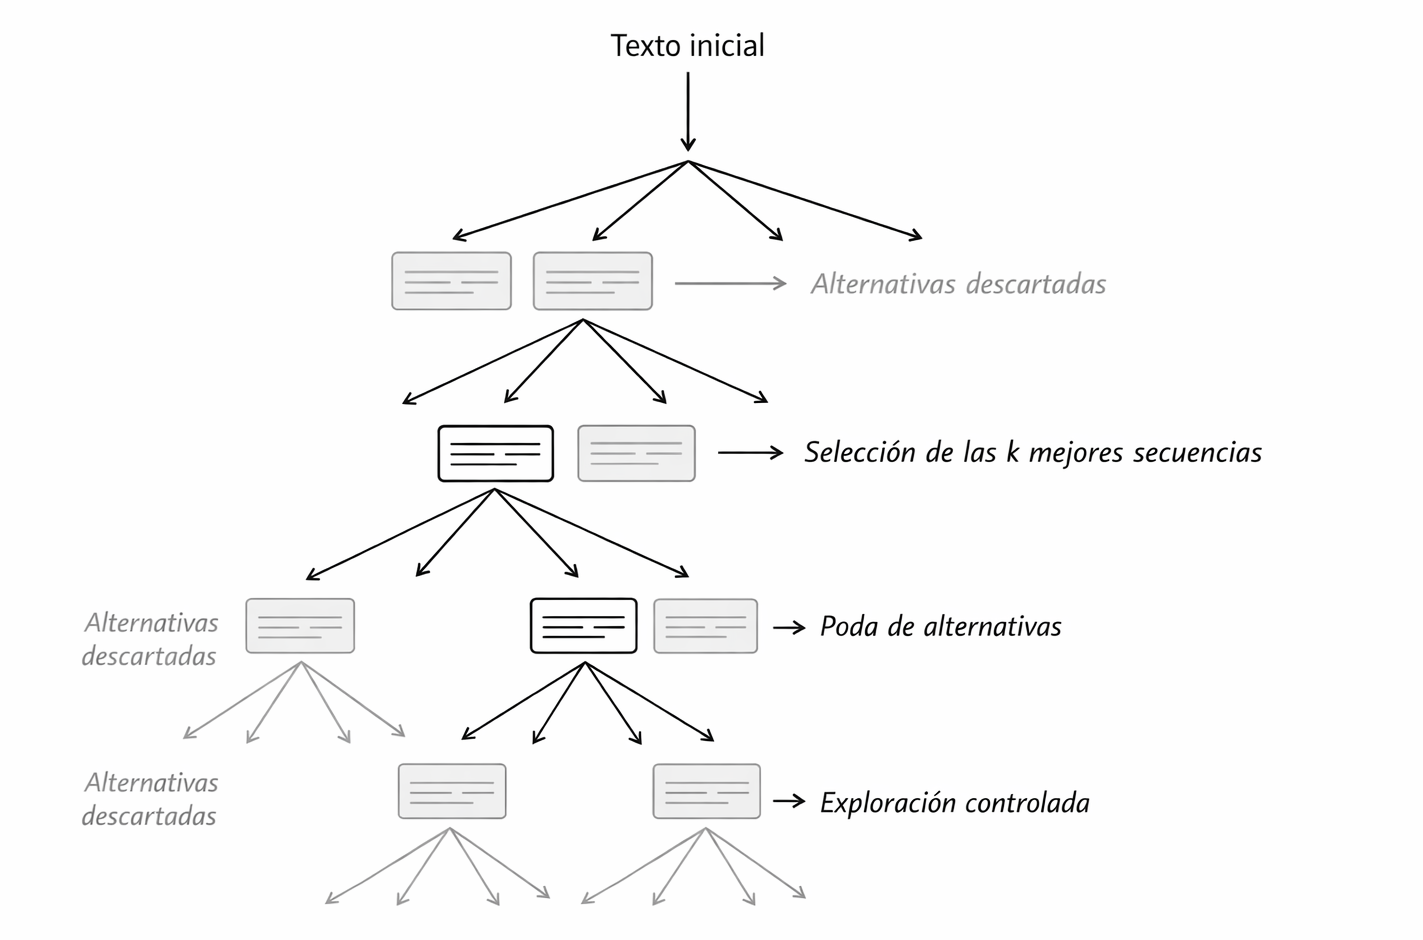
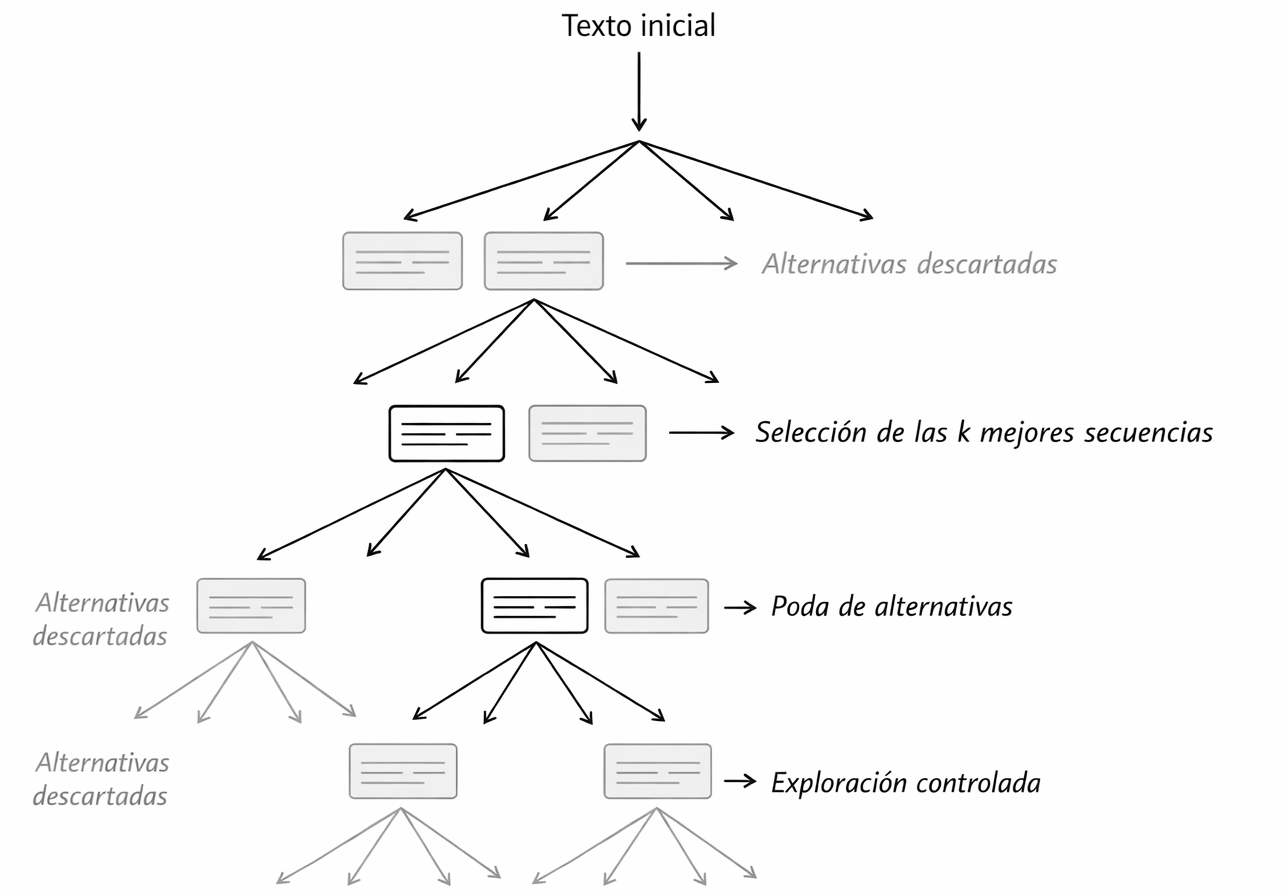
Fin. revisar

diff --git a/memoria/main.tex b/memoria/main.tex
@@ -45,6 +45,9 @@
   tabsize=2
 }
 
+
+
+
 %───────── Template, covers, back cover ────────────────────────────────
 \usepackage{template/sty_files/template-TFGspanish-uma}
 
@@ -99,20 +102,18 @@
 \setlength{\parindent}{0pt}
 \setlength{\parskip}{0.6em}
 
-EL RESUMEN MEJOR DEJARLO PARA EL FINAL, YA QUE TAMBIÉN SE DEBEN INCLUIR ASPECTOS RELACIONADOS CON LOS RESULTADOS
+Este trabajo presenta el desarrollo de una prueba de concepto de un agente basado en modelos de lenguaje ejecutados en local, orientado a la generación de texto con restricciones formales verificables.
+El sistema propuesto combina \emph{LangGraph} como herramienta para estructurar el flujo de ejecución y \emph{Beam Search} como estrategia de búsqueda para mantener varias estrofas candidatas en paralelo.
 
-%En este trabajo se presenta el desarrollo de una prueba de concepto de un agente con capacidad de razonamiento basado en modelos de lenguaje de gran tamaño \emph{(LLMs)}.
-%A diferencia de los sistemas tradicionales que generan una respuesta directa ante una consulta, el agente propuesto implementa bucles dinámicos de \emph{Chain of Thought (CoT)} que le permiten generar,
-%evaluar y refinar pasos intermedios antes de producir una respuesta final.
+Como caso de estudio, se aborda la generación automática de una estrofa en español formada por cuatro versos endecasílabos con rima consonante ABBA.
+Para ello, el agente organiza el proceso en fases de generación, evaluación formal, reparación local y selección de candidatas. La evaluación se basa en criterios objetivos, como el número de versos, el cumplimiento métrico y la adecuación del esquema de rima.
 
-%El sistema se implementa utilizando modelos de lenguaje ejecutados en local, como Llama-3, junto con la librería \emph{LangGraph} para la contrucción de flujos de razonamiento. Además, se emplea
-%una estrategia de búsqueda basada en \emph{Beam Search} que permite explorar múltiples posibles líneas de razonamiento y seleccionar aquellas más prometedoras mediante un mecanismo de puntuación.
+La experimentación se organiza en dos ciclos. El primero establece una línea base sin mecanismos explícitos de reparación, mientras que el segundo incorpora refinamientos orientados a corregir errores métricos y de rima.
+Los resultados muestran una mejora clara en la calidad formal de las estrofas generadas, pasando de soluciones parciales a resultados mucho más próximos al cumplimiento completo de las restricciones, aunque a costa de un mayor tiempo de ejecución.
 
-%El objetivo del proyecto es analizar la viabilidad de este enfoque para mejorar la capacidad de razonamiento de agentes basados en \emph{LLMs} y estudiar su comportamiento en diferentes escenarios de
-%resolución de problemas.
-%\medskip
+\medskip
 
-%\noindent \textbf{Palabras clave:} modelos de lenguaje, agentes inteligentes, \emph{Chain of Thought}, razonamiento automático, \emph{Beam Search}.
+\noindent \textbf{Palabras clave:} modelos de lenguaje, agentes inteligentes, \emph{LangGraph}, \emph{Beam Search}, generación con restricciones, evaluación formal.
 \end{abstract}
 
 
@@ -121,44 +122,43 @@ EL RESUMEN MEJOR DEJARLO PARA EL FINAL, YA QUE TAMBIÉN SE DEBEN INCLUIR ASPECTO
 \setlength{\parindent}{0pt}
 \setlength{\parskip}{0.6em}
 
-EL RESUMEN MEJOR DEJARLO PARA EL FINAL, YA QUE TAMBIÉN SE DEBEN INCLUIR ASPECTOS RELACIONADOS CON LOS RESULTADOS
+This work presents the development of a proof-of-concept agent based on locally executed language models, aimed at generating text under verifiable formal constraints.
+The proposed system combines \emph{LangGraph} as a tool for structuring the execution flow and \emph{Beam Search} as a search strategy to maintain several candidate stanzas in parallel.
 
-%This work represents the development of a proof-of-concept reasoning agent based on Large Language Models \emph{(LLMs)}.
-%Unlike traditional systems that generate an immediate response to a query, the proposed agent implements dynamic \emph{Chain Of Thought (CoT)} loops that allow it to generate, evaluate, and refine
-%intermediate reasoning steps before producing a final answer.
+As a case study, the system addresses the automatic generation of a Spanish stanza composed of four hendecasyllabic verses with ABBA consonant rhyme. To this end, the agent organizes the process into generation, formal evaluation, local repair and candidate selection stages.
+The evaluation is based on objective criteria, such as the number of verses, metrical correctness and compliance with the target rhyme scheme.
 
-%The system is implemented using locally executed language models such as Llama-3, together with the \emph{LangGraph} library for building reasoning workflows. Additionally, a \emph{Beam Search}
-%strategy is employed to explore multiple possible reasoning paths and select the most promising ones through a scoring mechanism.
+The experimental evaluation is organized into two cycles. The first one establishes a baseline without explicit repair mechanisms, whereas the second introduces refinements aimed at correcting metrical and rhyme-related errors.
+The results show a clear improvement in the formal quality of the generated stanzas, progressing from partial solutions to outputs much closer to full compliance with the imposed constraints, although at the cost of higher execution time.
 
-%The goal of this project is to analyze the feasibility of this approach to improve the reasoning capabilities of LLM-based agents and to study their behaviour in different problem-solving scenarios.
-%\medskip
+\medskip
 
-%\noindent \textbf{Keywords:} language models, intelligent agents, \emph{Chain of Thought}, automated reasoning, \emph{Beam Search}.
+\noindent \textbf{Keywords:} language models, intelligent agents, \emph{LangGraph}, \emph{Beam Search}, constrained generation, formal evaluation.
 \end{abstract}
 
 %──────────────── Acknowledgments ───────────────────────────────────────
 
 % ====================================== AGRADECIMIENTOS ====================================
 \begin{umaacknowledgments}
-ESTA PARTE ES LO ÚLTIMO DEL TFG
+%ESTA PARTE ES LO ÚLTIMO DEL TFG
 
-%Primero de todo, quiero expresar mi más sincero agradecimiento a mi tutor, el profesor Sergio Gálvez Rojas, por su apoyo, orientación y paciencia a lo largo de todo el proceso de desarrollo de este proyecto.
-%Su experiencia y conocimientos han sido fundamentales para superar los desafíos encontrados y para guiarme en la dirección correcta.
+Primero de todo, quiero expresar mi más sincero agradecimiento a mi tutor, el profesor Sergio Gálvez Rojas, por su apoyo, orientación y paciencia a lo largo de todo el proceso de desarrollo de este proyecto.
+Su experiencia y conocimientos han sido fundamentales para superar los desafíos encontrados y para guiarme en la dirección correcta.
 
-%En segundo lugar, quiero agradecer a mis compañeros de clase, en especial a Pedro, Placi y Sergio, por todos los momentos compartidos, tanto dentro como fuera del ámbito académico, y que forman parte sin duda de esta etapa universitaria y, por qué no, de este proyecto de fin de grado.
+En segundo lugar, quiero agradecer a mis compañeros de clase, en especial a Pedro, Placi y Sergio, por todos los momentos compartidos, tanto dentro como fuera del ámbito académico, y que forman parte sin duda de esta etapa universitaria y, por qué no, de este proyecto de fin de grado.
 
-%A Alejandro y Álvaro, mis compañeros de piso durante los dos últimos años de la carrera, gracias por vuestra compañía, apoyo y por hacer que la convivencia haya sido una experiencia tan positiva.
+A Alejandro y Álvaro, mis compañeros de piso durante los dos últimos años de la carrera, gracias por vuestra compañía, apoyo y por hacer que la convivencia haya sido una experiencia tan positiva.
 
-%Por supuesto, a Ángel, mi mejor amigo, gracias por estar siempre ahí, por escucharme, por compartir tus ideas y por ser una fuente constante de orgullo, motivación e inspiración.
+Por supuesto, a Ángel, mi mejor amigo, gracias por estar siempre ahí, por escucharme, por compartir tus ideas y por ser una fuente constante de orgullo, motivación e inspiración.
 
-%Y, sin duda, el agradecimiento más especial e importante, no sólo durante estos 4 años de carrera, sino a lo largo de toda mi vida, va para mi familia.
-%Comenzando por mis hermanas: Esperanza, por ser un ejemplo de esfuerzo y dedicación, y por tu apoyo incondicional en cada paso que doy; y Paula, por tu alegría, energía y cariño, que siempre me han dado fuerzas para seguir adelante.
+Y, sin duda, el agradecimiento más especial e importante, no sólo durante estos 4 años de carrera, sino a lo largo de toda mi vida, va para mi familia.
+Comenzando por mis hermanas: Esperanza, por ser un ejemplo de esfuerzo y dedicación, y por tu apoyo incondicional en cada paso que doy; y Paula, por tu alegría, energía y cariño, que siempre me han dado fuerzas para seguir adelante.
 
-%A mi mayor referente, mi padre, Juan, por ser un pilar fundamental en mi vida, por enseñarme el valor del trabajo duro y por estar siempre dispuesto a apoyarme en cada decisión que tomo. El hombre al que aspiro a parecerme, mi mayor fuente de inspiración.
-%Ejemplo constante de empeño, sacrificio y dedicación, y que me ha enseñado a perseguir mis sueños con pasión y determinación.
+A mi mayor referente, mi padre, Juan, por ser un pilar fundamental en mi vida, por enseñarme el valor del trabajo duro y por estar siempre dispuesto a apoyarme en cada decisión que tomo. El hombre al que aspiro a parecerme, mi mayor fuente de inspiración.
+Ejemplo constante de empeño, sacrificio y dedicación, y que me ha enseñado a perseguir mis sueños con pasión y determinación.
 
-%Y, por último, a mi madre, Margarita. Gracias por ser el corazón de nuestra familia, por tu amor incondicional, por esa sonrisa o ese beso que, incluso en los momentos más difíciles, hace que todo lo malo desaparezca.
-%Ejemplo de fortaleza y amor, y que me ha enseñado a ser la persona que soy hoy. Sin ti, nada de esto habría sido posible.
+Y, por último, a mi madre, Margarita. Gracias por ser el corazón de nuestra familia, por tu amor incondicional, por esa sonrisa o ese beso que, incluso en los momentos más difíciles, hace que todo lo malo desaparezca.
+Ejemplo de fortaleza y amor, y que me ha enseñado a ser la persona que soy hoy. Sin ti, nada de esto habría sido posible.
 
 % ESTO CREO QUE FINALMENTE LO VOY A QUITAR
 % Gracias a todas esas personas que, de una forma u otra, han formado parte de esta etapa de mi vida. Gracias por vuestro apoyo y por compartir conmigo esta experiencia. Sin vosotros, estos 4 años en Málaga y este proyecto de fin de grado no habrían sido lo mismo.
@@ -205,7 +205,7 @@ ESTA PARTE ES LO ÚLTIMO DEL TFG
 %Como caso de estudio, se plantea la generación de una estrofa clásica en español. Esta tarea resulta adecuada porque combina generación de lenguaje natural con restricciones verificables, como el número de versos,
 %la métrica endecasílaba y la rima consonante ABBA.
 
-En los últimos años, el desarrollo de los \emph{Large Language Models (LLMs)} ha supuesto un avance significativo en el procesamiento del lenguaje natural.Estos modelos son capaces de generar texto coherente, responder
+En los últimos años, el desarrollo de los \emph{Large Language Models (LLMs)} ha supuesto un avance significativo en el procesamiento del lenguaje natural. Estos modelos son capaces de generar texto coherente, responder
 preguntas y resolver una amplia variedad de tareas lingüísticas. Sin embargo, siguen presentando limitaciones cuando deben cumplir restricciones concretas o seguir un proceso de razonamiento controlado.
 
 Una de las principales dificultades aparece cuando la respuesta no puede considerarse únicamente como una generación libre, sino como el resultado de un proceso que debe ser explorado, evaluado y corregido.
@@ -289,7 +289,7 @@ Los \emph{Large Language Models (LLMs)} han experimentado un crecimiento notable
 Modelos basados en arquitecturas \emph{Transformer} han demostrado una gran capacidad para generar texto coherente, mantener el contexto en conversaciones prolongadas y abordar una amplia variedad de tareas lingüísticas
 con un alto grado de precisión.
 
-Estos avances se deben, en gran medida, al entrenamiento sobre grandes colúmenes de datos y a la capacidad de estos modelos para capturar patrones estadísticos complejos en el lenguaje \cite{vaswani2017attention,brown2020language}.
+Estos avances se deben, en gran medida, al entrenamiento sobre grandes volúmenes de datos y a la capacidad de estos modelos para capturar patrones estadísticos complejos en el lenguaje \cite{vaswani2017attention,brown2020language}.
 
 No obstante, a pesar de su elevado rendimiento en tareas generales de generación de texto, estos modelos presentan limitaciones significativas cuando se enfrentan a problemas que requieren razonamiento estructurado. A diferencia
 de los sistemas diseñados específicamente para la inferencia lógica o el cálculo simbólico, los \emph{LLMs} no siguen un proceso explícito de razonamiento, sino que generan respuestas basándose en la probabilidad de aparición de las
@@ -312,7 +312,7 @@ sino que también incrementa la fiabilidad del resultado final.
 
 
 Además, los \emph{LLMs} tienden a generar una única respuesta por defecto, sin explorar alternativas ni considerar diferentes posibles soluciones. Esta característica contrasta con los enfoques clásicos de resolución de problemas,
-en los que es habitual evaluar múltiples hipótesis antes de seleccionar la más adecuada. Como resultado, el modelo puede quedar limitado a una única trayectoria de generación, sin mecanismos internos que permiten revisar,
+en los que es habitual evaluar múltiples hipótesis antes de seleccionar la más adecuada. Como resultado, el modelo puede quedar limitado a una única trayectoria de generación, sin mecanismos internos que permitan revisar,
 comparar o corregir sus propias decisiones.
 
 En este contexto, surge la necesidad de desarrollar estrategias que permitan guiar el proceso de generación de los \emph{LLMs} hacia formas de razonamiento más estructuradas y fiables. Estas estrategias buscan introducir mecanismos
@@ -343,11 +343,11 @@ Sin embargo, a pesar de sus ventajas, este enfoque presenta también limitacione
 puede comprometer el resultado final sin posibilidad de corrección. Además, no existe un mecanismo interno que permita evaluar la calidad de los pasos generados ni comparar distintas alternativas de razonamiento.
 % esta limitación desaparecerá cuando introduzcamos Beam Search
 
-Por otro lado, la eficacia se \emph{CoT} depende en gran medida de la calidad del \emph{prompt} utilizado, así como de la capacidad del modelo para seguir instrucciones de forma consistente. En algunos casos, el modelo puede generar pasos
+Por otro lado, la eficacia de \emph{CoT} depende en gran medida de la calidad del \emph{prompt} utilizado, así como de la capacidad del modelo para seguir instrucciones de forma consistente. En algunos casos, el modelo puede generar pasos
 intermedios que resultan aceptables desde el punto de vista lingüístico, pero que no aportan un avance real en la resolución del problema.
 
-En conjunto, \emph{Chain-of-Thought} representa un avance significativo en la forma de abordar el razonamiento con modelos de lenguaje, al introducir la idea de estructurar la generación mediante pasos intermedios. No obstante, sus
-limitaciones ponen de manifiesto la necesidad de desarrollar enfoques más avanzados que permitan explorar múltiples trayectorias y evaluar su calidad de manera sistemática.
+%En conjunto, \emph{Chain-of-Thought} representa un avance significativo en la forma de abordar el razonamiento con modelos de lenguaje, al introducir la idea de estructurar la generación mediante pasos intermedios. No obstante, sus
+%limitaciones ponen de manifiesto la necesidad de desarrollar enfoques más avanzados que permitan explorar múltiples trayectorias y evaluar su calidad de manera sistemática.
 
 %────────────────────── Extensiones de razonamiento paso a paso ──────────────────────────
 \section{Extensiones de Razonamiento Paso a Paso}
@@ -377,7 +377,7 @@ especialmente relevante en el desarrollo de sistemas capaces de abordar problema
 El proceso de generación de texto en los modelos de lenguaje puede entenderse como un problema de búsqueda en el espacio de todas las posibles secuencias de palabras. En cada paso, el modelo asigna una probabilidad a los posibles
 siguientes \emph{tokens} en función del contexto previo, para que sea el método de búsqueda el que posteriormente determina cómo se selecciona la continuación de la secuencia generada.
 
-El enfoque más sencillo es la estrategia \emph{greedy}, que consiste en seleccionar en cada paso el token con mayor probabilidad. Este método es eficiente y produce resultados coherentes en muchos casos, pero presenta una limitación
+El enfoque más sencillo es la estrategia \emph{greedy}, que consiste en seleccionar en cada paso el \emph{token} con mayor probabilidad. Este método es eficiente y produce resultados coherentes en muchos casos, pero presenta una limitación
 importante: al tomar decisiones de forma local, puede descartar opciones que, aunque inicialmente menos probables, podrían conducir a mejores resultados a largo plazo \cite{jurafsky2009speech}.
 
 Como se muestra en la figura~\ref{fig:GreedySearch}, este comportamiento implica que en cada paso únicamente se sigue la alternativa más probable, ignorando otras posibles continuaciones que quedan descartadas desde etapas tempranas del proceso.
@@ -385,7 +385,7 @@ Esta característica explica por qué el método puede converger rápidamente a 
 
 \begin{figure}[h]
     \centering
-    \includegraphics[width=0.7\textwidth]{images/GreedySearch.png}
+    \includegraphics[width=0.8\textwidth]{images/GreedySearch.png}
     \caption{Ilustración del algoritmo de búsqueda voraz en la generación de texto. Fuente: elaboración propia}
     \label{fig:GreedySearch}
 \end{figure}
@@ -430,12 +430,16 @@ trayectorias que se mantienen activas en cada iteración. A partir de estas secu
 iterativa hasta alcanzar una condición de finalización, como la generación de una secuencia completa o un numero máximo de pasos \cite{jurafsky2009speech}.
 
 Desde un punto de vista conceptual, \emph{Beam Search} puede interpretarse como una exploración controlada del espacio de soluciones. En lugar de comprometerse con una única trayectoria desde el inicio, el algoritmo permite reconsiderar
-decisiones a medida que se genera la secuencia, manteniedno abiertas varias alternativas en paralelo. Esto reduce la probabilidad de descartar prematuramente opciones que podrían resultar óptimos en etapas posteriores (como sucede en la
+decisiones a medida que se genera la secuencia, manteniendo abiertas varias alternativas en paralelo. Esto reduce la probabilidad de descartar prematuramente opciones que podrían resultar óptimas en etapas posteriores (como sucede en la
 búsqueda voraz).
 
 La figura~\ref{fig:BeamSearchImagen2} ilustra este proceso mediante un árbol de generación en el que, a partir de un estado inicial, se exploran múltiples continuaciones posibles. En cada iteración, únicamente se conservan las $k$ trayectorias
 mejor valoradas, mientras que el resto son descartadas, lo que permite limitar el crecimiento exponencial del número de secuencias. Este mecanismo de expansión y poda sucesiva constituye el núcleo del algoritmo y explica su capacidad para
 combinar exploración y eficiencia.
+
+No obstante, la eficacia del algoritmo depende en gran medida de la función de puntuación utilizada para evaluar las secuencias candidatas. En aplicaciones tradicionales de procesamiento del lenguaje, esta puntuación suele basarse en
+la probabilidad acumulada de la secuencia generada. Sin embargo, este criterio no siempre es suficiente en tareas que requieren razonamiento, donde la calidad de una solución no depende únicamente de su probabilidad, sino también de la
+coherencia y validez de los pasos intermedios.
 
 \begin{figure}[h]
     \centering
@@ -444,12 +448,8 @@ combinar exploración y eficiencia.
     \label{fig:BeamSearchImagen2}
 \end{figure}
 
-No obstante, la eficacia del algoritmo depende en gran medida de la función de puntuación utilizada para evaluar las secuencias candidatas. En aplicaciones tradicionales de procesamiento del lenguaje, esta puntuaciñon suele basarse en
-la probabilidad acumulada de la secuencia generada. Sin embargo, este criterio no siempre es suficiente en tareas que requieren razonamiento, donde la calidad de una solución no depende únicamente de su probabilidad, sino también de la
-coherencia y validez de los pasos intermedios.
-
 Otra limitación relevante es que \emph{Beam Search} sigue siendo un método determinista en su forma básica, lo que implica que puede generar resultados similares en ejecuciones repetidas si no se introduce algún mecanismo de variabilidad.
-Además, el valor del parámetro $k$ unfluye directamente en el equilibrio entre coste computacional y calidad de las soluciones: valores pequeños pueden limitar la exploración, mientras que valores grandes incrementan significativamente
+Además, el valor del parámetro $k$ influye directamente en el equilibrio entre coste computacional y calidad de las soluciones: valores pequeños pueden limitar la exploración, mientras que valores grandes incrementan significativamente
 el tiempo de cálculo.
 
 A pesar de estas limitaciones, \emph{Beam Search} constituye una herramienta fundamental en la generación de secuencias, y su capacidad para mantener múltiples hipótesis lo convierte en un candidato natural para su aplicación en tareas de
@@ -464,15 +464,15 @@ Aunque el algoritmo de \emph{Beam Search} ha sido tradicionalmente utilizado en 
 lenguaje. En este contexto, el objetivo no es únicamente generar una secuencia probable, sino explorar distintas posibles trayectorias de razonamiento y seleccionar aquellas que conducen a soluciones más adecuadas.
 
 La combinación de \emph{Beam Search} con enfoques como \emph{Chain-of-Thought} permite reinterpretar el proceso de generación como una búsqueda sobre posibles cadenas de razonamiento. En lugar de producir una única secuencia de pasos intermedios,
-el modelo puede generar múltiples alternativas en cada etapa, dando lugar a diferentes hipótesis que desarrollan en paralelo. Este enfoque permite superar uan de las principales limitaciones del razonamiento lineal, al incorporar la posibilidad
+el modelo puede generar múltiples alternativas en cada etapa, dando lugar a diferentes hipótesis que desarrollan en paralelo. Este enfoque permite superar una de las principales limitaciones del razonamiento lineal, al incorporar la posibilidad
 de reconsiderar decisiones y explorar distintos caminos hacia la solución.
 
 Como se muestra en la figura~\ref{fig:BeamSearchYCoT}, esta diferencia puede entenderse como el paso de un proceso de generación basado en una única trayectoria (\emph{Chain-of-Thought}) a otro en el que se mantienen múltiples trayectorias de
-razonamiento de forma simultánea (\emph{Beam Search} + \emph{CoT}). Esta ampliación del espacio de búsqueda permite aumentar la probabilidad de encontrar soluciones correctas, especialmente en problemas que requieren varios pasos intermedios.
+razonamiento de forma simultánea (\emph{Beam Search} + \emph{CoT}). %Esta ampliación del espacio de búsqueda permite aumentar la probabilidad de encontrar soluciones correctas, especialmente en problemas que requieren varios pasos intermedios.
 
 \begin{figure}[h]
     \centering
-    \includegraphics[width=0.95\textwidth]{images/BeamSearchYCoT.png}
+    \includegraphics[width=0.9\textwidth]{images/BeamSearchYCoT.png}
     \caption{Estrategias de generación: trayectoria única frente a múltiples trayectorias. Fuente: elaboración propia}
     \label{fig:BeamSearchYCoT}
 \end{figure}
@@ -487,8 +487,8 @@ la necesidad de definir criterios más complejos que permitan evaluar no solo el
 Además, el uso de \emph{Beam Search} en este contexto requiere integrar mecanismos que permitan generar pasos de razonamiento coherentes y relevantes en cada iteración. Esto puede lograrse mediante el uso de técnicas de \emph{propmting}
 adecuadas, que orienten al modelo hacia la producción de pasos intermedios bien estructurados, o mediante la incorporación de componentes adicionales encargados de guiar el proceso de generación.
 
-Por último, cabe destacar que la aplicación de \emph{Beam Search} al razonamiento introduce un equilibrio delicado entre exploración y coste computacional. A medida que se incrementa el número de traycetorias consideradas, mejora la capacidad
-del sistema para encontrar soluciones de mayor calidad, pero también aumenta el número de evaluaciones necesarios. Por tanto, resulta necesario ajustar cuidadosamente los parámetros del algoritmo para lograr un compromisoadecuado entre
+Por último, cabe destacar que la aplicación de \emph{Beam Search} al razonamiento introduce un equilibrio delicado entre exploración y coste computacional. A medida que se incrementa el número de trayectorias consideradas, mejora la capacidad
+del sistema para encontrar soluciones de mayor calidad, pero también aumenta el número de evaluaciones necesarios. Por tanto, resulta necesario ajustar cuidadosamente los parámetros del algoritmo para lograr un compromiso adecuado entre
 eficacia y rendimiento.
 
 En conjunto, la integración de \emph{Beam Search} en el proceso de razonamiento con modelos de lenguaje representa un paso hacia enfoques más estructurados y controlados, en los que la generación de soluciones no depende de una única trayectoria,
@@ -504,7 +504,7 @@ directamente la salida del modelo con una respuesta de referencia, en tareas de 
 En enfoques tradicionales, la evaluación suele centrarse en la corrección de la respuesta final mediante métricas como la exactitud o el \emph{exact match}. Este tipo de medidas resulta adecuado en tareas cerradas, como la resolución de problemas
 matemáticos con una única solución correcta \cite{cobbe2021training}. Sin embargo, presentan limitaciones importantes en escenarios donde el razonamiento intermedio juega un papel fundamental o donde pueden existir múltiples soluciones plausibles.
 
-En este contexto, ha surgido un interés creciente por evaluar explícitamente las traycetorias de razonamiento generadas por los modelos. Este enfoque implica analizar la coherencia, consistencia y utilidad de los pasos intermedios, en lugar de
+En este contexto, ha surgido un interés creciente por evaluar explícitamente las trayectorias de razonamiento generadas por los modelos. Este enfoque implica analizar la coherencia, consistencia y utilidad de los pasos intermedios, en lugar de
 limitarse a verificar el resultado final. La evaluación del proceso permite identificar errores que no serían detectables mediante métricas tradicionales, especialmente en casos en los que una respuesta correcta puede haberse obtenido a partir
 de un razonamiento incorrecto o incompleto.
 
@@ -546,8 +546,8 @@ Las extensiones basadas en la generación de múltiples trayectorias, como \emph
 se basa únicamente en el resultado, sin tener en cuenta la calidad del razonamiento intermedio. Esto limita su capacidad para discriminar entre soluciones que pueden parecer correctas superficialmente pero que se basan en procesos
 inconsistentes \cite{wang2022self}.
 
-Asimismo, la exploración del espacio de soluciones suele implicar un compromiso complejo entre calidad y coste computacional. Métodos como \emph{Tree of Thoughts}, que permiten considerar múltiples alternativas tienden a requerir un mayor
-número de evaluaciones, lo que dificulta su aplicación en entornos donde lso recursos son limitados.
+Asimismo, la exploración del espacio de soluciones suele implicar un compromiso complejo entre calidad y coste computacional. Métodos como \emph{Tree of Thoughts}, que permiten considerar múltiples alternativas, tienden a requerir un mayor
+número de evaluaciones, dificultando así su aplicación en entornos donde los recursos son limitados.
 
 Por último, muchos de los enfoques existentes carecen de un marco unificado que integre de manera coherente la generación de soluciones, su evaluación y el control del flujo de razonamiento. En lugar de ello, estos componentes suelen abordarse
 de forma aislada, lo que reduce la capacidad del sistema para gestionar el proceso de forma estructurada.
@@ -605,7 +605,7 @@ razonamiento. Esta necesidad constituye el punto de partida para el enfoque prop
 \section{Introducción a LangGraph}
 
 En los sistemas basados en modelos de lenguaje, el enfoque tradicional ha consistido en realizar llamadas independientes y aisladas a un modelo, evolucionando posteriormente
-hacia sistemas más complejos capaces de gestionar flujos de ejecución estructurados. Esto cambio responde así a la necesidad de construir aplicaciones que no solo generen
+hacia sistemas más complejos capaces de gestionar flujos de ejecución estructurados. Este cambio responde así a la necesidad de construir aplicaciones que no solo generen
 respuestas, sino que integren múltiples pasos de procesamiento, toma de decisiones y manejo de información intermedia.
 
 En este contexto surge \emph{LangGraph}, una herramienta que se presenta como alternativa a los enfoques lineales, y diseñada para facilitar la construcción de agentes
@@ -622,46 +622,18 @@ procesos más complejos y adaptativos.
 
 \begin{figure}[h]
     \centering
-
-    \begin{subfigure}{0.45\textwidth}
-        \centering
-        \includegraphics[width=0.8\linewidth]{images/DiagramaFlujoSecuencial.png}
-        \caption{Ejemplo de enfoque tradicional mediante diagrama de flujo lineal}
-    \end{subfigure}
-    \hfill
-    \begin{subfigure}{0.45\textwidth}
-        \centering
-        \includegraphics[width=\linewidth]{images/DiagramaFlujoGrafo2.png}
-        \caption{Ejemplo de enfoque moderno mediante diagrama de flujo en grafo}
-    \end{subfigure}
-
-    \caption{Comparación entre enfoques. Fuente: Elaboración propia}
+    \includegraphics[width=0.9\textwidth]{images/DosFlujos.png}
+    \caption{Comparación entre un flujo de ejecución lineal tradicional y un flujo basado en grafo. Fuente: Elaboración propia}
     \label{fig:ComparaciónEnfoques}
 \end{figure}
 
 Además, la modularidad que ofrece \emph{LangGraph} al facilitar la separación de responsabilidades dentro del sistema, permitiendo definir distintos componentes que se encargan de
 tareas específicas no solo mejorar la claridad del diseño, sino que a su vez favorece la reutilización y extensión del sistema. Algunas de las tareas específicas ejecutadas por los
-compenentes son la generación de contenido, la evaluación de resultados o la actualización del estado interno.
+componentes son la generación de contenido, la evaluación de resultados o la actualización del estado interno.
 
 De este modo, \emph{LangGraph} constituye una base sólida para el desarrollo de agentes avanzados, proporcionando un marco de trabajo que permite superar las limitaciones de los
 enfoques secuenciales tradicionales y ofreciendo una forma más estructurada y flexible de diseñar agentes basados en modelos de lenguaje.
 
-%\begin{algorithm}
-%\caption{Joint SR+Seg training}
-%\label{alg:train}
-%\begin{algorithmic}[1]
-%\Procedure{Train}{$\mathcal{D}$, $\theta$, $\phi$}
-%  \For{epoch $=1..E$}
-%    \For{batch $(y,x,m)\sim \mathcal{D}$}
-%      \State $\hat x \gets f_\theta(y)$
-%      \State $z \gets g_\phi(\hat x)$; $p\gets\sigma(z)$
-%      \State $\mathcal{L}\gets \mathcal{L}_{\mathrm{SR}}(\hat x,x)+\gamma\,\mathcal{L}_{\mathrm{seg}}(p,m)$
-%      \State Update $(\theta,\phi)$ by Adam on $\nabla \mathcal{L}$
-%    \EndFor
-%  \EndFor
-%\EndProcedure
-%\end{algorithmic}
-%\end{algorithm}
 
 %────────────────────── Concepto de grafos aplicado a agentes ──────────────────────────
 \section{Concepto de Grafo Aplicado a Agentes}